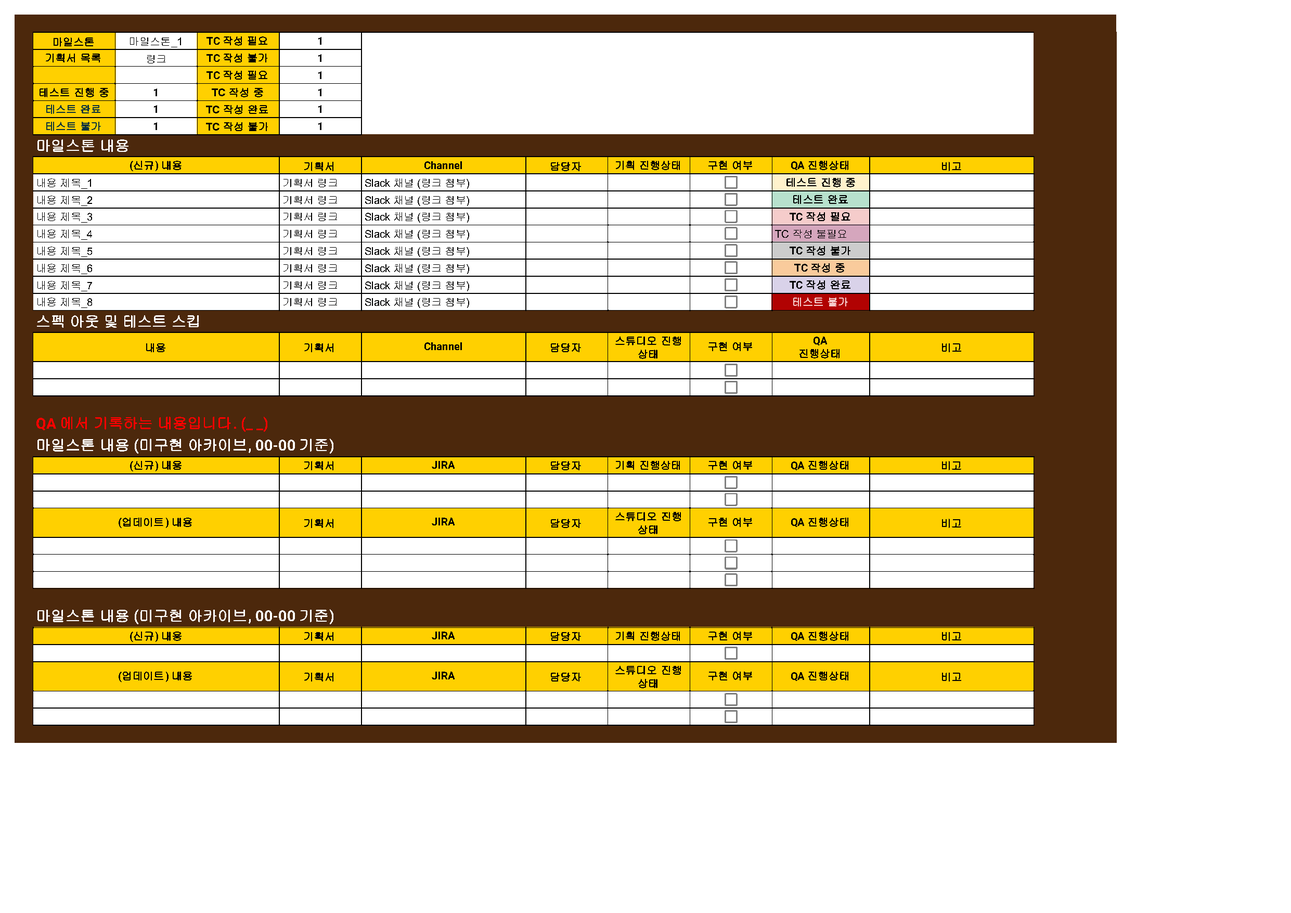
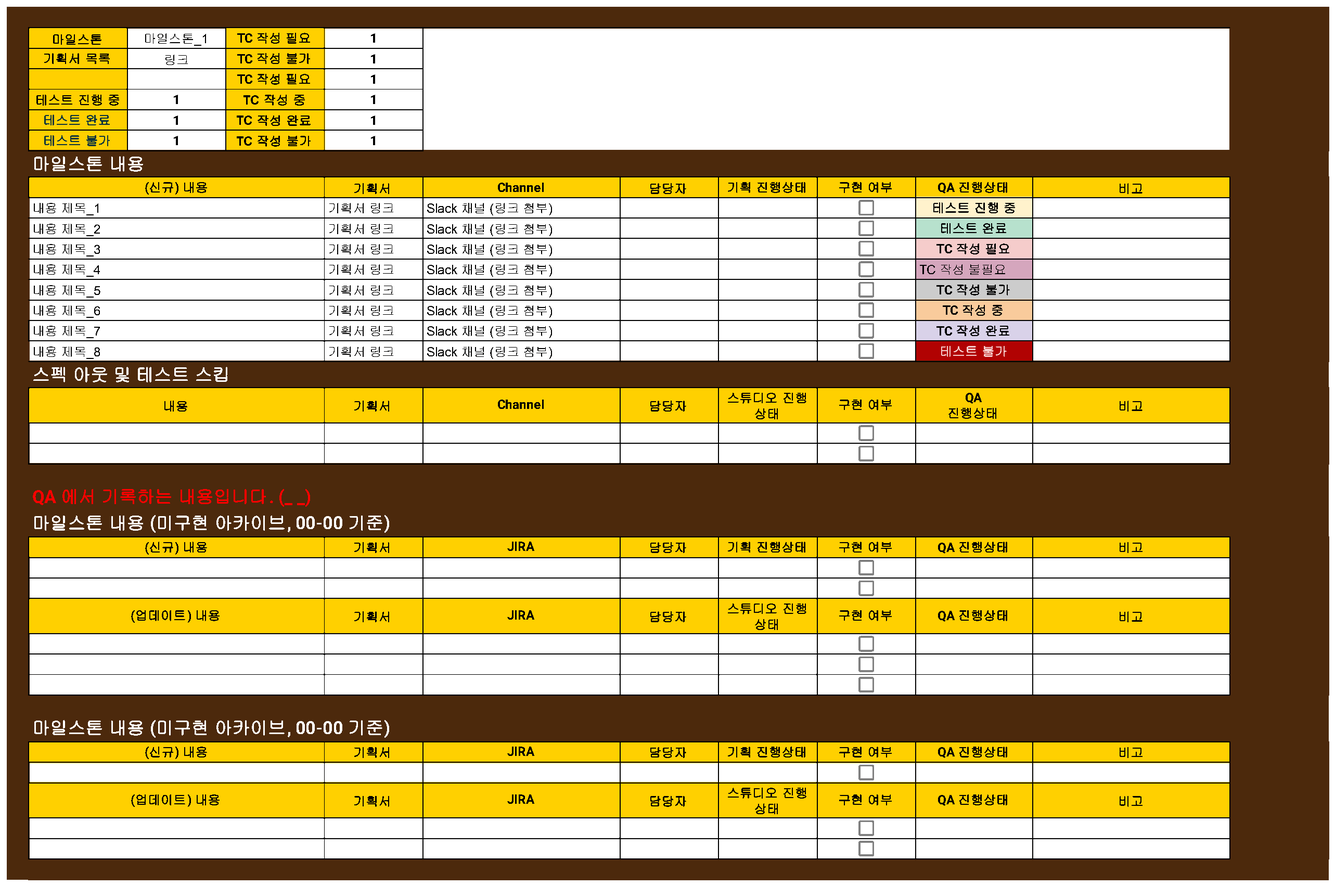
Refine QA document preview spacing and readability

diff --git a/goddess-order.html b/goddess-order.html
@@ -1,6 +1,6 @@
 <!DOCTYPE html><html lang="ko"><head><meta charset="UTF-8"><meta name="viewport" content="width=device-width,initial-scale=1"><title>박재윤 | 가디스 오더</title><meta name="description" content="개발 품질과 이슈 처리"><link rel="canonical" href="https://parkjaeyoon-portfolio.vercel.app/goddess-order.html"><meta property="og:type" content="website"><meta property="og:locale" content="ko_KR"><meta property="og:site_name" content="박재윤 PM Portfolio"><meta property="og:title" content="박재윤 | 가디스 오더"><meta property="og:description" content="개발 품질과 이슈 처리"><meta property="og:url" content="https://parkjaeyoon-portfolio.vercel.app/goddess-order.html"><meta property="og:image" content="https://parkjaeyoon-portfolio.vercel.app/assets/images/atmosphere/night-sky-v3.webp"><meta name="twitter:card" content="summary_large_image"><link rel="icon" href="favicon.ico"><link rel="stylesheet" href="style.css"><link rel="stylesheet" href="cinematic.css"><link rel="stylesheet" href="hero-visual.css"><link rel="stylesheet" href="star-journey.css"><link rel="stylesheet" href="site.css"></head><body class="detail-page is-body-theme project-detail"><a class="skip-link" href="#main-content">본문으로 이동</a><header class="header"><a class="logo" href="index.html">GAME PM</a><nav class="site-nav" aria-label="메인 메뉴"><a href="index.html">홈</a><a href="about.html">소개</a><a href="career.html">경력</a><a href="projects.html" aria-current="location">프로젝트</a><a href="ai.html">AI 활용</a><a href="business.html">사업/서비스</a><a href="index.html#contact">연락</a></nav><details class="mobile-menu"><summary>메뉴</summary><nav aria-label="모바일 메뉴"><a href="index.html">홈</a><a href="about.html">소개</a><a href="career.html">경력</a><a href="projects.html" aria-current="location">프로젝트</a><a href="ai.html">AI 활용</a><a href="business.html">사업/서비스</a><a href="index.html#contact">연락</a></nav></details></header><main id="main-content"><div class="detail-intro detail-intro--with-visual" id="page-top"><div class="detail-intro-copy"><nav class="breadcrumbs" aria-label="탐색 경로"><a href="index.html">홈</a><span aria-hidden="true">·</span><a href="projects.html">← 프로젝트 목록</a></nav><p class="eyebrow">Project Case Study</p><h1>가디스 오더</h1><!-- VERIFY_PROJECT_TEAM: 가디스 오더 / 기존 포트폴리오 PDF·PPTX 32–33쪽. 개발 인력 규모이며 직접 관리 인원이 아님. Unity 3D·Trello·Notion은 사용자 확인(2026-11-01), Jira는 기존 포트폴리오 기준. --><!-- 기존 포트폴리오 PDF·PPTX 32–33쪽. 개발 인력 규모이며 직접 관리 인원이 아님. Unity 3D·Trello·Notion은 사용자 확인(2026-11-01), Jira는 기존 포트폴리오 기준. --><!-- TODO_PROJECT_COLLABORATION: 가디스 오더 / 협업 조직 확인 필요 --><p class="project-introduction-role">Development PM · 개발 QA</p><p class="project-introduction-context">개발 품질 검증과 Jira 이슈 처리 흐름 정리</p><dl class="project-introduction-meta"><div><dt>회사</dt><dd>로드컴플릿</dd></div><div><dt>참여 기간</dt><dd>2021.04 ~ 2024.01</dd></div><div><dt>개발 구성원</dt><dd>150명 → 170명</dd></div></dl></div><figure class="detail-intro-visual"><a class="evidence-enlarge" href="assets/images/goddess-order/goddess-order-header.png" target="_blank" rel="noopener" aria-label="이미지 크게 보기, 새 탭"><img src="assets/images/goddess-order/goddess-order-header.webp" width="900" height="600" alt="가디스 오더 로고와 픽셀 캐릭터가 보이는 게임 타이틀 화면" decoding="async" fetchpriority="high"></a><figcaption>이미지를 클릭하면 크게 볼 수 있습니다.</figcaption></figure><div class="project-introduction-scope"><div><h2>담당 범위</h2><ul><li>테스트 시나리오 계획·설계</li><li>기획 대비 기능·구현 검증</li><li>테스트 결과 보고·이슈 공유</li><li>Jira 이슈 처리 절차 개선</li><li>이슈 현황 대시보드 구축</li></ul></div><dl><div><dt>사용 도구</dt><dd><ul class="project-tool-icons" aria-label="사용 도구"><li><img src="assets/icons/tools/unity.svg" width="24" height="24" alt="" aria-hidden="true" loading="lazy" decoding="async"><span>Unity 3D</span></li><li><img src="assets/icons/tools/trello.svg" width="24" height="24" alt="" aria-hidden="true" loading="lazy" decoding="async"><span>Trello</span></li><li><img src="assets/icons/tools/notion.svg" width="24" height="24" alt="" aria-hidden="true" loading="lazy" decoding="async"><span>Notion</span></li><li><img src="assets/icons/tools/jira.svg" width="24" height="24" alt="" aria-hidden="true" loading="lazy" decoding="async"><span>Jira</span></li></ul></dd></div></dl></div></div><article class="case-study goddess-study" id="project-goddess" aria-labelledby="go-case-title">
   <header class="go-lead"><p class="eyebrow">개발 PM · 개발 QA</p><h2 id="go-case-title">테스트에서 발견한 이슈가 처리로 이어지도록</h2><p>기획 의도와 실제 구현 결과를 비교하며 테스트 시나리오를 설계하고, 테스트를 진행해 결과를 보고했습니다.<br class="sentence-break">Jira에 등록된 이슈가 처리되는 과정도 함께 확인했습니다.</p></header>
-  <section class="go-section" aria-labelledby="go-quality-title"><h2 id="go-quality-title">개발 QA 주요 업무</h2><p>테스트 설계와 실행, 결과 보고부터 이슈 처리 절차와 현황 관리까지 담당했습니다.</p><dl class="go-reading"><div><dt>테스트 시나리오 계획·설계</dt><dd>기획 의도와 검증할 내용을 정리해 테스트 시나리오를 계획하고 설계했습니다.<br class="sentence-break">구현 결과를 비교할 기준을 마련하고 테스트 진행에 활용했습니다.</dd></div><div><dt>기획 대비 기능·구현 검증</dt><dd>설계한 시나리오를 바탕으로 테스트를 진행하고, 기획 의도와 실제 구현 결과를 비교해 이상 여부를 확인했습니다.</dd></div><div><dt>테스트 결과 보고·이슈 공유</dt><dd>테스트에서 확인한 내용을 결과로 정리해 보고했습니다.<br class="sentence-break">발견한 문제를 공유하고 Jira에 등록된 이슈의 처리 상태를 함께 확인했습니다.</dd></div><div><dt>Jira 이슈 처리 절차 개선</dt><dd>담당자 미지정 이슈가 방치되는 문제를 확인하고, 상태별 워크플로우와 담당자 할당 단계를 4단계로 세분화했습니다.<br class="sentence-break">단계별 담당자를 지정하고 변경한 절차를 개발실에 공유했습니다.</dd></div><div><dt>이슈 현황 대시보드 구축</dt><dd>Jira 이슈 현황판 대시보드를 제작해 등록된 이슈의 상태를 확인할 수 있도록 했습니다.<br class="sentence-break">테스트 결과 보고와 이슈 현황 확인을 함께 수행했습니다.</dd></div></dl><div class="go-documents" id="go-documents"><h3 id="go-documents-title">QA 업무 문서</h3><p>테스트 케이스와 QA 진행 현황을 정리하기 위해 만든 업무 양식입니다.</p><div class="go-document"><h4>테스트 조건부터 결과 기록까지</h4><p>기능별로 테스트 조건과 실행 순서, 기대 결과를 한 행에 정리했습니다.<br class="sentence-break">AOS·iOS 결과를 각각 기록하고, 발견한 문제는 이슈 번호로 연결하도록 구성했습니다.</p><figure><a class="evidence-enlarge" href="assets/images/goddess-order/test-cases-full.pdf" target="_blank" rel="noopener noreferrer" aria-label="테스트 케이스 양식 전체 문서 크게 보기, 새 탭"><img src="assets/images/goddess-order/test-cases-template.png" width="2482" height="1755" loading="lazy" decoding="async" alt="테스트 케이스 양식의 기능·조건·실행 순서·기대 결과와 AOS·iOS 결과 및 이슈 번호 기록 영역"></a><figcaption>이미지를 클릭하면 크게 볼 수 있습니다.</figcaption></figure></div><div class="go-document"><h4>구현 여부와 테스트 진행 상태</h4><p>기획서와 협업 채널, 담당자, 구현 여부를 QA 진행 상태와 함께 확인하는 현황판입니다.<br class="sentence-break">TC 작성 필요·작성 중·작성 완료와 테스트 진행 중·완료·불가를 구분했습니다.</p><figure><a class="evidence-enlarge" href="assets/images/goddess-order/qa-progress-full.pdf" target="_blank" rel="noopener noreferrer" aria-label="QA 진행 현황판 전체 문서 크게 보기, 새 탭"><img src="assets/images/goddess-order/qa-progress-template.png" width="2482" height="1755" loading="lazy" decoding="async" alt="QA 진행 현황판 양식의 기획·구현 여부와 테스트 케이스 작성 및 테스트 진행 상태"></a><figcaption>이미지를 클릭하면 크게 볼 수 있습니다.</figcaption></figure></div><div class="go-document"><h4>QA 결과와 잔여 이슈 보고</h4><p>TC 결과를 Pass·Fail·Block·N/A로 나누어 보고하고, 남은 이슈는 우선순위와 담당자, 처리 상태를 함께 확인하도록 만든 보고서 양식입니다.<br class="sentence-break">결과 요약과 차트, 잔여 이슈를 포함한 보고서 전체를 볼 수 있습니다.</p><figure><a class="evidence-enlarge" href="assets/images/goddess-order/qa-report-full.pdf" target="_blank" rel="noopener noreferrer" aria-label="QA 보고서 전체 문서 크게 보기, 새 탭"><img src="assets/images/goddess-order/qa-report-template.png" width="2482" height="1755" loading="lazy" decoding="async" alt="QA 보고서 전체 양식: 테스트 정보, 결과 요약과 차트, 항목별 집계 및 잔여 이슈"></a><figcaption>이미지를 클릭하면 크게 볼 수 있습니다.</figcaption></figure></div></div></section>
+  <section class="go-section" aria-labelledby="go-quality-title"><h2 id="go-quality-title">개발 QA 주요 업무</h2><p>테스트 설계와 실행, 결과 보고부터 이슈 처리 절차와 현황 관리까지 담당했습니다.</p><dl class="go-reading"><div><dt>테스트 시나리오 계획·설계</dt><dd>기획 의도와 검증할 내용을 정리해 테스트 시나리오를 계획하고 설계했습니다.<br class="sentence-break">구현 결과를 비교할 기준을 마련하고 테스트 진행에 활용했습니다.</dd></div><div><dt>기획 대비 기능·구현 검증</dt><dd>설계한 시나리오를 바탕으로 테스트를 진행하고, 기획 의도와 실제 구현 결과를 비교해 이상 여부를 확인했습니다.</dd></div><div><dt>테스트 결과 보고·이슈 공유</dt><dd>테스트에서 확인한 내용을 결과로 정리해 보고했습니다.<br class="sentence-break">발견한 문제를 공유하고 Jira에 등록된 이슈의 처리 상태를 함께 확인했습니다.</dd></div><div><dt>Jira 이슈 처리 절차 개선</dt><dd>담당자 미지정 이슈가 방치되는 문제를 확인하고, 상태별 워크플로우와 담당자 할당 단계를 4단계로 세분화했습니다.<br class="sentence-break">단계별 담당자를 지정하고 변경한 절차를 개발실에 공유했습니다.</dd></div><div><dt>이슈 현황 대시보드 구축</dt><dd>Jira 이슈 현황판 대시보드를 제작해 등록된 이슈의 상태를 확인할 수 있도록 했습니다.<br class="sentence-break">테스트 결과 보고와 이슈 현황 확인을 함께 수행했습니다.</dd></div></dl><div class="go-documents" id="go-documents"><h3 id="go-documents-title">QA 업무 문서</h3><p>테스트 케이스와 QA 진행 현황을 정리하기 위해 만든 업무 양식입니다.</p><div class="go-document"><h4>테스트 조건부터 결과 기록까지</h4><p>기능별로 테스트 조건과 실행 순서, 기대 결과를 한 행에 정리했습니다.<br class="sentence-break">AOS·iOS 결과를 각각 기록하고, 발견한 문제는 이슈 번호로 연결하도록 구성했습니다.</p><figure><a class="evidence-enlarge" href="assets/images/goddess-order/test-cases-full.pdf" target="_blank" rel="noopener noreferrer" aria-label="테스트 케이스 양식 전체 문서 크게 보기, 새 탭"><img src="assets/images/goddess-order/test-cases-template.png" width="2934" height="1156" loading="lazy" decoding="async" alt="테스트 케이스 양식의 기능·조건·실행 순서·기대 결과와 AOS·iOS 결과 및 이슈 번호 기록 영역"></a><figcaption>이미지를 클릭하면 크게 볼 수 있습니다.</figcaption></figure></div><div class="go-document"><h4>구현 여부와 테스트 진행 상태</h4><p>기획서와 협업 채널, 담당자, 구현 여부를 QA 진행 상태와 함께 확인하는 현황판입니다.<br class="sentence-break">TC 작성 필요·작성 중·작성 완료와 테스트 진행 중·완료·불가를 구분했습니다.</p><figure><a class="evidence-enlarge" href="assets/images/goddess-order/qa-progress-full.pdf" target="_blank" rel="noopener noreferrer" aria-label="QA 진행 현황판 전체 문서 크게 보기, 새 탭"><img src="assets/images/goddess-order/qa-progress-template.png" width="2566" height="1703" loading="lazy" decoding="async" alt="QA 진행 현황판 양식의 기획·구현 여부와 테스트 케이스 작성 및 테스트 진행 상태"></a><figcaption>이미지를 클릭하면 크게 볼 수 있습니다.</figcaption></figure></div><div class="go-document go-document--report"><h4>QA 결과와 잔여 이슈 보고</h4><p>TC 결과를 Pass·Fail·Block·N/A로 나누어 보고하고, 남은 이슈는 우선순위와 담당자, 처리 상태를 함께 확인하도록 만든 보고서 양식입니다.<br class="sentence-break">결과 요약과 차트, 잔여 이슈를 포함한 보고서 전체를 볼 수 있습니다.</p><figure><a class="evidence-enlarge" href="assets/images/goddess-order/qa-report-full.pdf" target="_blank" rel="noopener noreferrer" aria-label="QA 보고서 전체 문서 크게 보기, 새 탭"><img src="assets/images/goddess-order/qa-report-template.png" width="1965" height="2061" loading="lazy" decoding="async" alt="QA 보고서 전체 양식: 테스트 정보, 결과 요약과 차트, 항목별 집계 및 잔여 이슈"></a><figcaption>이미지를 클릭하면 크게 볼 수 있습니다.</figcaption></figure></div></div></section>
   <section class="go-section" aria-labelledby="go-unassigned-title"><p class="eyebrow">Jira 이슈 처리 사례</p><h2 id="go-unassigned-title">등록됐지만 담당자가 없는 이슈</h2><p>Jira에 등록된 이슈 중 담당자가 지정되지 않은 채 남아 있는 이슈가 1천 건을 넘었습니다.<br class="sentence-break">이슈를 등록하는 것만으로는 처리가 이어지지 않아, 상태별 처리 규칙과 담당자를 함께 정리할 필요가 있었습니다.</p></section>
   <section class="go-section" aria-labelledby="go-workflow-title"><h2 id="go-workflow-title">상태를 나누고, 단계마다 담당자를 지정</h2><p>이슈 상태에 따른 워크플로우를 세분화하고, 담당자 할당 단계를 4단계로 나눴습니다.<br class="sentence-break">각 단계에 담당자를 지정한 뒤 변경된 워크플로우를 개발실에 공유했습니다.</p><ol class="go-workflow" aria-label="이슈 처리 프로세스 변경 순서"><li><strong>상태별 흐름 검토</strong><span>이슈 상태에 따른 워크플로우 개선</span></li><li><strong>워크플로우 세분화</strong><span>담당자 할당 단계를 4단계로 구분</span></li><li><strong>단계별 담당자 지정</strong><span>각 처리 단계에 담당자 연결</span></li><li><strong>개발실 공유</strong><span>변경한 처리 흐름 전달</span></li></ol></section>
   <section class="go-section" aria-labelledby="go-change-title"><h2 id="go-change-title">상태와 담당자를 함께 확인</h2><p>변경 후에는 이슈의 상태와 다음 담당자를 확인할 수 있었습니다.<br class="sentence-break">담당자 없이 방치되던 이슈도 더 이상 발생하지 않았습니다.</p></section>

diff --git a/content/portfolio-source.html b/content/portfolio-source.html
@@ -371,7 +371,7 @@
 
   <article class="case-study goddess-study" id="project-goddess" aria-labelledby="go-case-title">
   <header class="go-lead"><p class="eyebrow">개발 PM · 개발 QA</p><h2 id="go-case-title">테스트에서 발견한 이슈가 처리로 이어지도록</h2><p>기획 의도와 실제 구현 결과를 비교하며 테스트 시나리오를 설계하고, 테스트를 진행해 결과를 보고했습니다.<br class="sentence-break">Jira에 등록된 이슈가 처리되는 과정도 함께 확인했습니다.</p></header>
-  <section class="go-section" aria-labelledby="go-quality-title"><h2 id="go-quality-title">개발 QA 주요 업무</h2><p>테스트 설계와 실행, 결과 보고부터 이슈 처리 절차와 현황 관리까지 담당했습니다.</p><dl class="go-reading"><div><dt>테스트 시나리오 계획·설계</dt><dd>기획 의도와 검증할 내용을 정리해 테스트 시나리오를 계획하고 설계했습니다.<br class="sentence-break">구현 결과를 비교할 기준을 마련하고 테스트 진행에 활용했습니다.</dd></div><div><dt>기획 대비 기능·구현 검증</dt><dd>설계한 시나리오를 바탕으로 테스트를 진행하고, 기획 의도와 실제 구현 결과를 비교해 이상 여부를 확인했습니다.</dd></div><div><dt>테스트 결과 보고·이슈 공유</dt><dd>테스트에서 확인한 내용을 결과로 정리해 보고했습니다.<br class="sentence-break">발견한 문제를 공유하고 Jira에 등록된 이슈의 처리 상태를 함께 확인했습니다.</dd></div><div><dt>Jira 이슈 처리 절차 개선</dt><dd>담당자 미지정 이슈가 방치되는 문제를 확인하고, 상태별 워크플로우와 담당자 할당 단계를 4단계로 세분화했습니다.<br class="sentence-break">단계별 담당자를 지정하고 변경한 절차를 개발실에 공유했습니다.</dd></div><div><dt>이슈 현황 대시보드 구축</dt><dd>Jira 이슈 현황판 대시보드를 제작해 등록된 이슈의 상태를 확인할 수 있도록 했습니다.<br class="sentence-break">테스트 결과 보고와 이슈 현황 확인을 함께 수행했습니다.</dd></div></dl><div class="go-documents" id="go-documents"><h3 id="go-documents-title">QA 업무 문서</h3><p>테스트 케이스와 QA 진행 현황을 정리하기 위해 만든 업무 양식입니다.</p><div class="go-document"><h4>테스트 조건부터 결과 기록까지</h4><p>기능별로 테스트 조건과 실행 순서, 기대 결과를 한 행에 정리했습니다.<br class="sentence-break">AOS·iOS 결과를 각각 기록하고, 발견한 문제는 이슈 번호로 연결하도록 구성했습니다.</p><figure><a class="evidence-enlarge" href="assets/images/goddess-order/test-cases-full.pdf" target="_blank" rel="noopener noreferrer" aria-label="테스트 케이스 양식 전체 문서 크게 보기, 새 탭"><img src="assets/images/goddess-order/test-cases-template.png" width="2482" height="1755" loading="lazy" decoding="async" alt="테스트 케이스 양식의 기능·조건·실행 순서·기대 결과와 AOS·iOS 결과 및 이슈 번호 기록 영역"></a><figcaption>이미지를 클릭하면 크게 볼 수 있습니다.</figcaption></figure></div><div class="go-document"><h4>구현 여부와 테스트 진행 상태</h4><p>기획서와 협업 채널, 담당자, 구현 여부를 QA 진행 상태와 함께 확인하는 현황판입니다.<br class="sentence-break">TC 작성 필요·작성 중·작성 완료와 테스트 진행 중·완료·불가를 구분했습니다.</p><figure><a class="evidence-enlarge" href="assets/images/goddess-order/qa-progress-full.pdf" target="_blank" rel="noopener noreferrer" aria-label="QA 진행 현황판 전체 문서 크게 보기, 새 탭"><img src="assets/images/goddess-order/qa-progress-template.png" width="2482" height="1755" loading="lazy" decoding="async" alt="QA 진행 현황판 양식의 기획·구현 여부와 테스트 케이스 작성 및 테스트 진행 상태"></a><figcaption>이미지를 클릭하면 크게 볼 수 있습니다.</figcaption></figure></div><div class="go-document"><h4>QA 결과와 잔여 이슈 보고</h4><p>TC 결과를 Pass·Fail·Block·N/A로 나누어 보고하고, 남은 이슈는 우선순위와 담당자, 처리 상태를 함께 확인하도록 만든 보고서 양식입니다.<br class="sentence-break">결과 요약과 차트, 잔여 이슈를 포함한 보고서 전체를 볼 수 있습니다.</p><figure><a class="evidence-enlarge" href="assets/images/goddess-order/qa-report-full.pdf" target="_blank" rel="noopener noreferrer" aria-label="QA 보고서 전체 문서 크게 보기, 새 탭"><img src="assets/images/goddess-order/qa-report-template.png" width="2482" height="1755" loading="lazy" decoding="async" alt="QA 보고서 전체 양식: 테스트 정보, 결과 요약과 차트, 항목별 집계 및 잔여 이슈"></a><figcaption>이미지를 클릭하면 크게 볼 수 있습니다.</figcaption></figure></div></div></section>
+  <section class="go-section" aria-labelledby="go-quality-title"><h2 id="go-quality-title">개발 QA 주요 업무</h2><p>테스트 설계와 실행, 결과 보고부터 이슈 처리 절차와 현황 관리까지 담당했습니다.</p><dl class="go-reading"><div><dt>테스트 시나리오 계획·설계</dt><dd>기획 의도와 검증할 내용을 정리해 테스트 시나리오를 계획하고 설계했습니다.<br class="sentence-break">구현 결과를 비교할 기준을 마련하고 테스트 진행에 활용했습니다.</dd></div><div><dt>기획 대비 기능·구현 검증</dt><dd>설계한 시나리오를 바탕으로 테스트를 진행하고, 기획 의도와 실제 구현 결과를 비교해 이상 여부를 확인했습니다.</dd></div><div><dt>테스트 결과 보고·이슈 공유</dt><dd>테스트에서 확인한 내용을 결과로 정리해 보고했습니다.<br class="sentence-break">발견한 문제를 공유하고 Jira에 등록된 이슈의 처리 상태를 함께 확인했습니다.</dd></div><div><dt>Jira 이슈 처리 절차 개선</dt><dd>담당자 미지정 이슈가 방치되는 문제를 확인하고, 상태별 워크플로우와 담당자 할당 단계를 4단계로 세분화했습니다.<br class="sentence-break">단계별 담당자를 지정하고 변경한 절차를 개발실에 공유했습니다.</dd></div><div><dt>이슈 현황 대시보드 구축</dt><dd>Jira 이슈 현황판 대시보드를 제작해 등록된 이슈의 상태를 확인할 수 있도록 했습니다.<br class="sentence-break">테스트 결과 보고와 이슈 현황 확인을 함께 수행했습니다.</dd></div></dl><div class="go-documents" id="go-documents"><h3 id="go-documents-title">QA 업무 문서</h3><p>테스트 케이스와 QA 진행 현황을 정리하기 위해 만든 업무 양식입니다.</p><div class="go-document"><h4>테스트 조건부터 결과 기록까지</h4><p>기능별로 테스트 조건과 실행 순서, 기대 결과를 한 행에 정리했습니다.<br class="sentence-break">AOS·iOS 결과를 각각 기록하고, 발견한 문제는 이슈 번호로 연결하도록 구성했습니다.</p><figure><a class="evidence-enlarge" href="assets/images/goddess-order/test-cases-full.pdf" target="_blank" rel="noopener noreferrer" aria-label="테스트 케이스 양식 전체 문서 크게 보기, 새 탭"><img src="assets/images/goddess-order/test-cases-template.png" width="2934" height="1156" loading="lazy" decoding="async" alt="테스트 케이스 양식의 기능·조건·실행 순서·기대 결과와 AOS·iOS 결과 및 이슈 번호 기록 영역"></a><figcaption>이미지를 클릭하면 크게 볼 수 있습니다.</figcaption></figure></div><div class="go-document"><h4>구현 여부와 테스트 진행 상태</h4><p>기획서와 협업 채널, 담당자, 구현 여부를 QA 진행 상태와 함께 확인하는 현황판입니다.<br class="sentence-break">TC 작성 필요·작성 중·작성 완료와 테스트 진행 중·완료·불가를 구분했습니다.</p><figure><a class="evidence-enlarge" href="assets/images/goddess-order/qa-progress-full.pdf" target="_blank" rel="noopener noreferrer" aria-label="QA 진행 현황판 전체 문서 크게 보기, 새 탭"><img src="assets/images/goddess-order/qa-progress-template.png" width="2566" height="1703" loading="lazy" decoding="async" alt="QA 진행 현황판 양식의 기획·구현 여부와 테스트 케이스 작성 및 테스트 진행 상태"></a><figcaption>이미지를 클릭하면 크게 볼 수 있습니다.</figcaption></figure></div><div class="go-document go-document--report"><h4>QA 결과와 잔여 이슈 보고</h4><p>TC 결과를 Pass·Fail·Block·N/A로 나누어 보고하고, 남은 이슈는 우선순위와 담당자, 처리 상태를 함께 확인하도록 만든 보고서 양식입니다.<br class="sentence-break">결과 요약과 차트, 잔여 이슈를 포함한 보고서 전체를 볼 수 있습니다.</p><figure><a class="evidence-enlarge" href="assets/images/goddess-order/qa-report-full.pdf" target="_blank" rel="noopener noreferrer" aria-label="QA 보고서 전체 문서 크게 보기, 새 탭"><img src="assets/images/goddess-order/qa-report-template.png" width="1965" height="2061" loading="lazy" decoding="async" alt="QA 보고서 전체 양식: 테스트 정보, 결과 요약과 차트, 항목별 집계 및 잔여 이슈"></a><figcaption>이미지를 클릭하면 크게 볼 수 있습니다.</figcaption></figure></div></div></section>
   <section class="go-section" aria-labelledby="go-unassigned-title"><p class="eyebrow">Jira 이슈 처리 사례</p><h2 id="go-unassigned-title">등록됐지만 담당자가 없는 이슈</h2><p>Jira에 등록된 이슈 중 담당자가 지정되지 않은 채 남아 있는 이슈가 1천 건을 넘었습니다.<br class="sentence-break">이슈를 등록하는 것만으로는 처리가 이어지지 않아, 상태별 처리 규칙과 담당자를 함께 정리할 필요가 있었습니다.</p></section>
   <section class="go-section" aria-labelledby="go-workflow-title"><h2 id="go-workflow-title">상태를 나누고, 단계마다 담당자를 지정</h2><p>이슈 상태에 따른 워크플로우를 세분화하고, 담당자 할당 단계를 4단계로 나눴습니다.<br class="sentence-break">각 단계에 담당자를 지정한 뒤 변경된 워크플로우를 개발실에 공유했습니다.</p><ol class="go-workflow" aria-label="이슈 처리 프로세스 변경 순서"><li><strong>상태별 흐름 검토</strong><span>이슈 상태에 따른 워크플로우 개선</span></li><li><strong>워크플로우 세분화</strong><span>담당자 할당 단계를 4단계로 구분</span></li><li><strong>단계별 담당자 지정</strong><span>각 처리 단계에 담당자 연결</span></li><li><strong>개발실 공유</strong><span>변경한 처리 흐름 전달</span></li></ol></section>
   <section class="go-section" aria-labelledby="go-change-title"><h2 id="go-change-title">상태와 담당자를 함께 확인</h2><p>변경 후에는 이슈의 상태와 다음 담당자를 확인할 수 있었습니다.<br class="sentence-break">담당자 없이 방치되던 이슈도 더 이상 발생하지 않았습니다.</p></section>

diff --git a/site.css b/site.css
@@ -894,9 +894,11 @@ br.sentence-break{display:initial}
 .goddess-study .go-documents { margin-top:48px; padding-top:32px; border-top:1px solid var(--color-border); }
 .goddess-study .go-document { margin-top:32px; }
 .goddess-study .go-document + .go-document { margin-top:48px; }
-.goddess-study .go-document figure { margin:24px 0 0; }
+.goddess-study .go-document figure { margin:24px 0 0; max-width:1100px; }
+.goddess-study .go-document--report figure { max-width:800px; }
+.goddess-study .go-document .evidence-enlarge { display:block; width:fit-content; max-width:100%; }
 .goddess-study .go-document img { display:block; width:100%; height:auto; border:1px solid var(--color-border); }
 .goddess-study .go-document figcaption { margin-top:12px; font-size:var(--font-caption); color:var(--color-text-secondary); }
 
-/* Show each complete worksheet preview; enlargement opens every PDF page. */
-.goddess-study .go-document img { max-height:480px; object-fit:contain; background:#fff; }
+/* Preview follows the document content ratio; the complete PDF stays unchanged. */
+.goddess-study .go-document img { max-height:none; object-fit:contain; background:#fff; }
